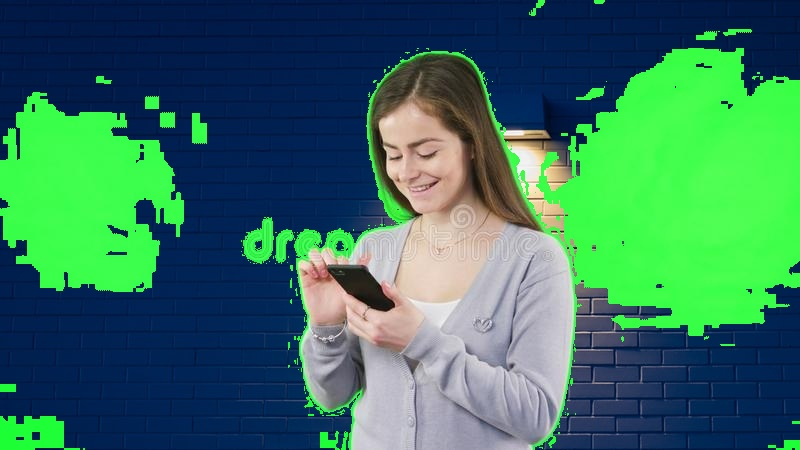
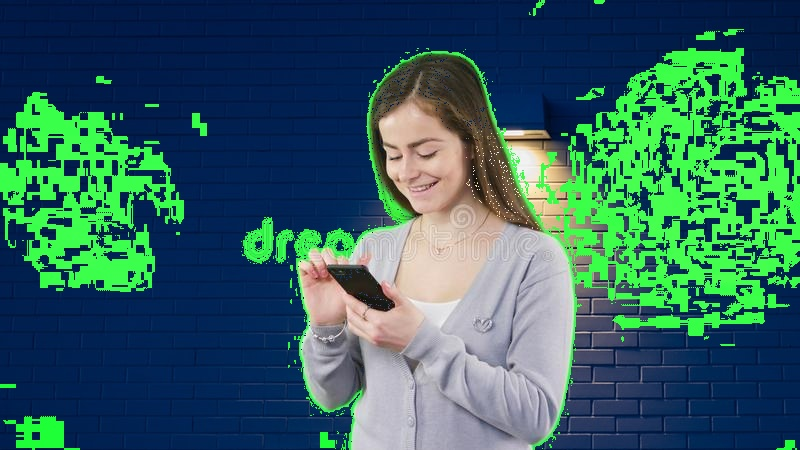
improved code for background removal

diff --git a/main.py b/main.py
@@ -1,5 +1,6 @@
 import cv2
 import os
+import numpy as np
 
 def getImageArrayColor(image):
   color = cv2.imread(image, 1) # 1 for color 0 for b&w
@@ -90,7 +91,9 @@ def removeGreenBackground(image_path, backimage_path):
     for j in range(height):
       pixel = foreground[j,i]
       pixel_list = list(pixel)
-      if ( (pixel_list[0] < 90) & (pixel_list[0] > 55) & (pixel_list[1] < 280) & (pixel_list[1] > 250) & (pixel_list[2] < 55)):
+      if np.any(pixel == [54, 254,28]) | np.any(pixel == [53, 253,31]):
+        foreground[j,i] = background[j,i]   # as prescribed
+      if ( (pixel_list[0] < 90) & (pixel_list[0] > 55) & (pixel_list[1] < 280) & (pixel_list[1] > 250) & (pixel_list[2] < 55)):    # trail
         foreground[j,i] = background[j,i]
         
 
@@ -120,6 +123,6 @@ def removeGreenBackground(image_path, backimage_path):
 #addWaterMark("watermark/faces.jpg", "watermark/sign.png", "watermark/imagewithwatermark.jpeg")
 
 #case 7 : Remove Background
-#removeGreenBackground("background/foreground.jpg", "background/background.jpeg")
+removeGreenBackground("background/foreground.jpg", "background/background.jpeg")
 
 
